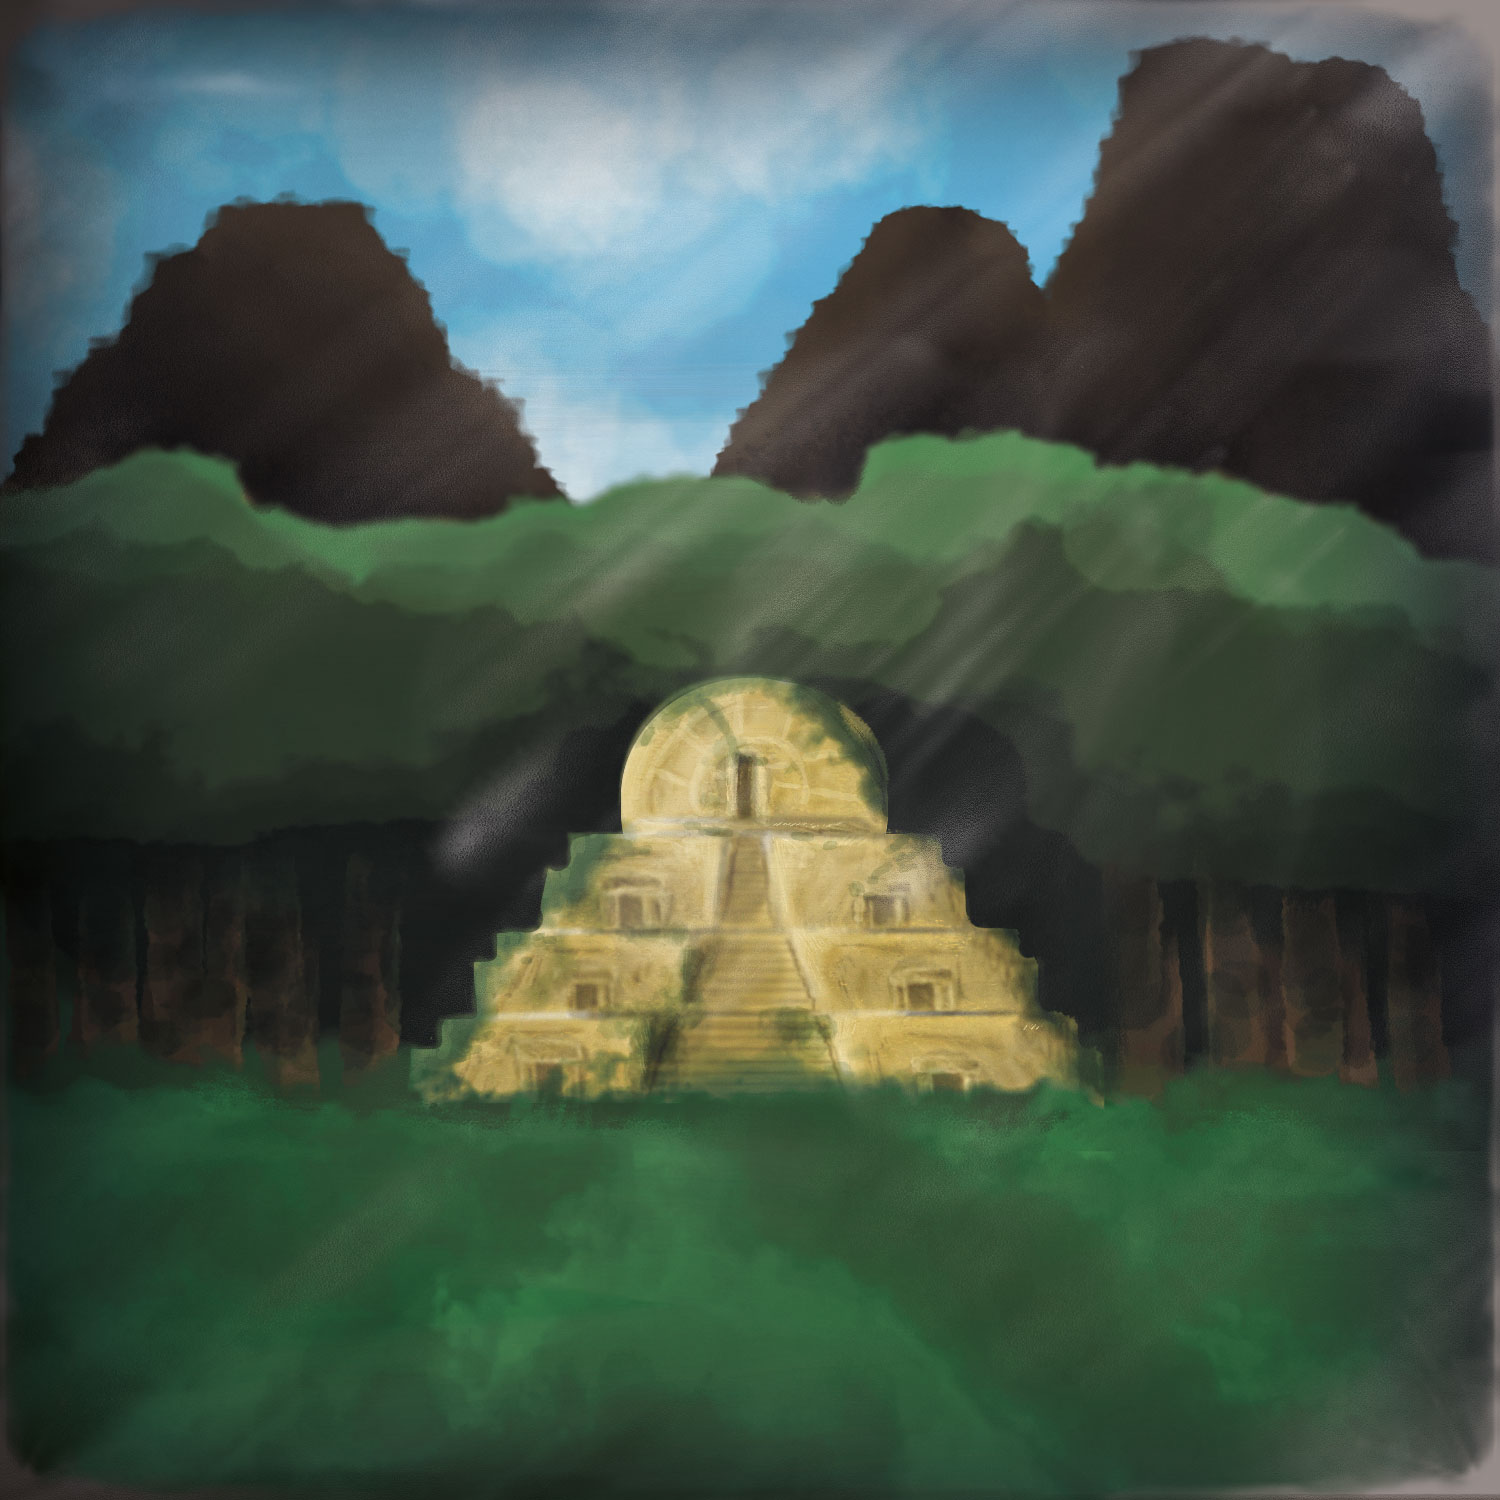
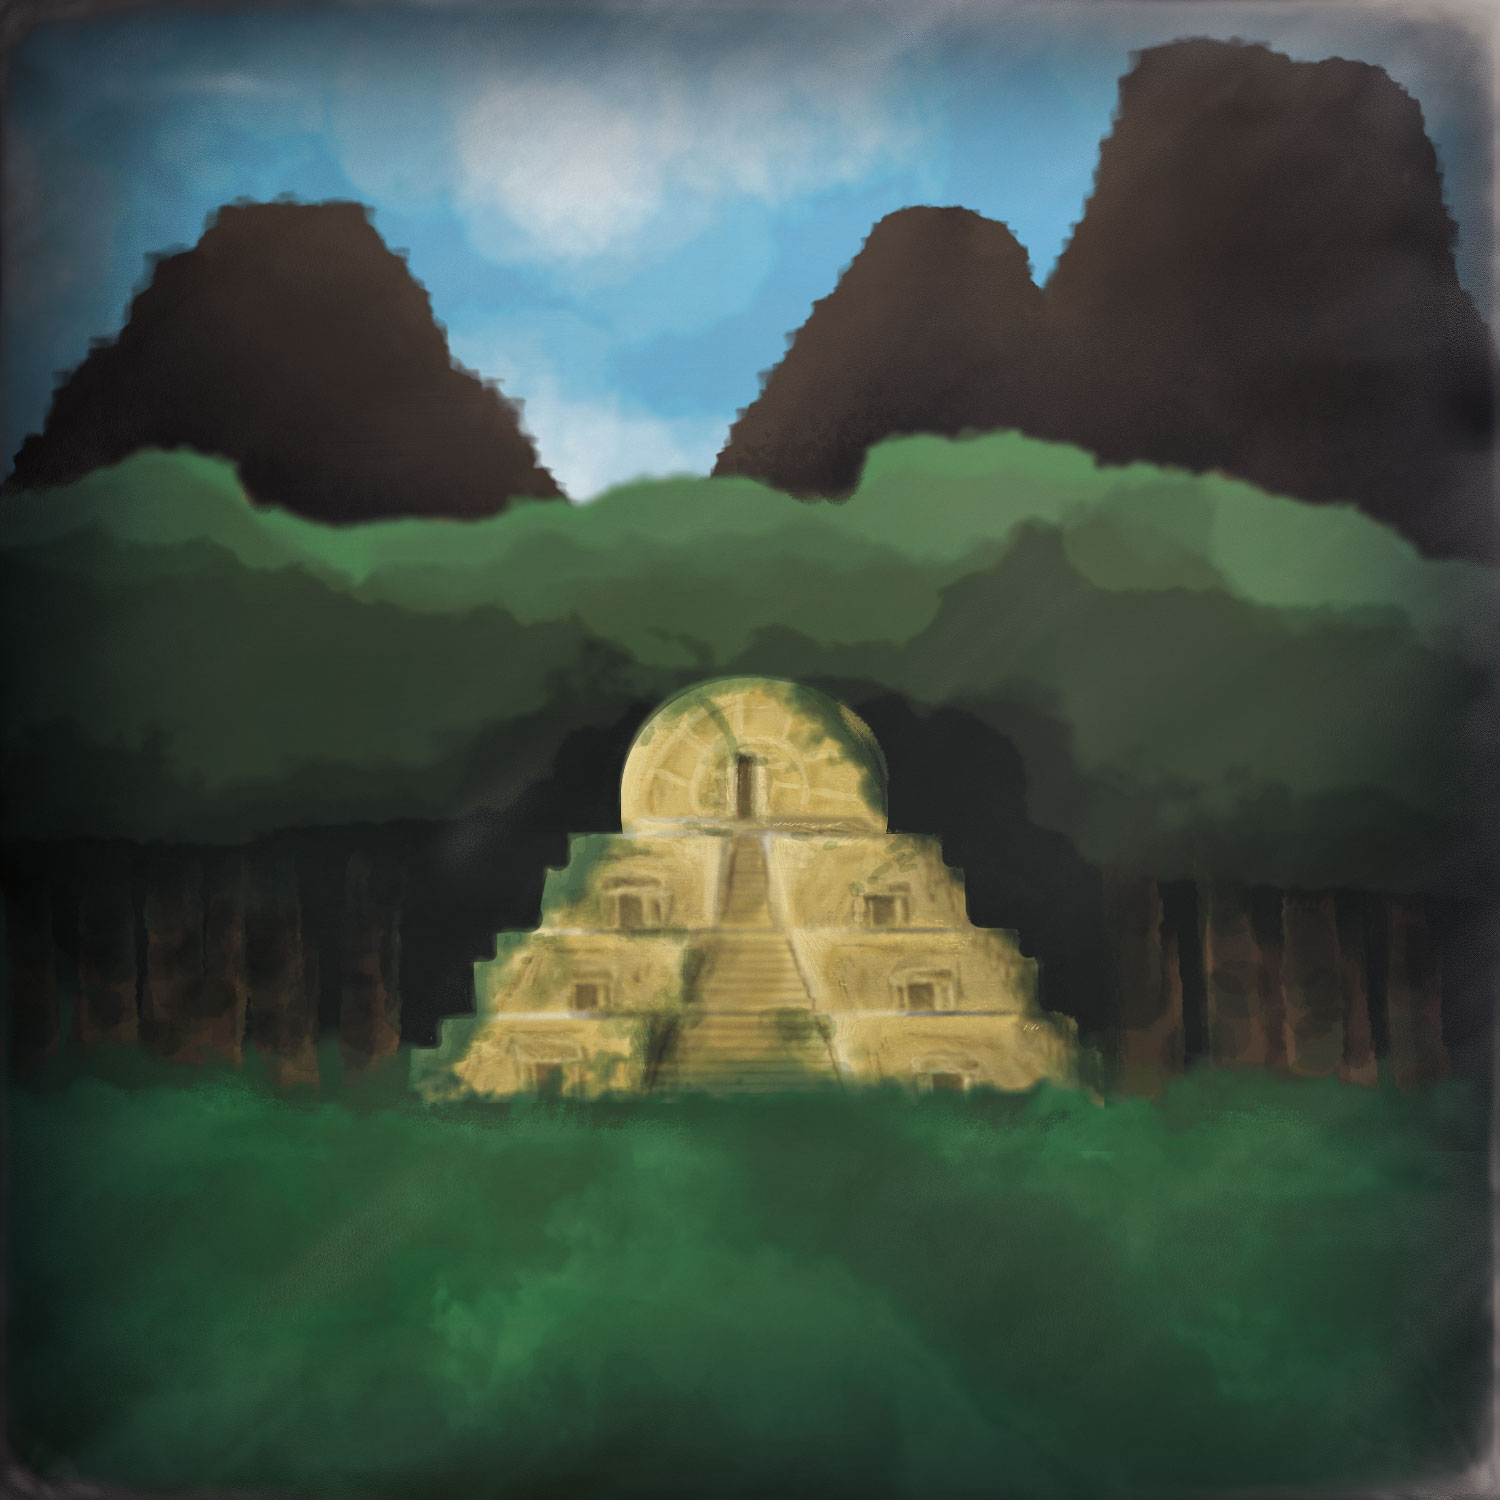
v6.1
Pequeñas correciones visuales y hover en el botón de mute para que cambie el cursor.

diff --git a/css/proyecto.css b/css/proyecto.css
@@ -68,6 +68,9 @@ header{
     right: 10px;
     z-index: 2;
 }
+.btn:hover{
+    cursor: pointer;
+}
 .ico{
     width: 20px;
     height: 20px;
